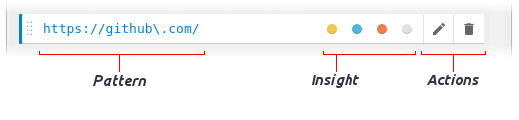
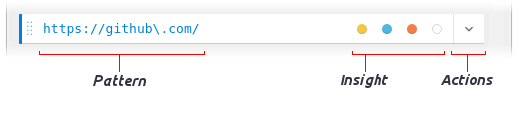
changes README update images

diff --git a/dist/script/browser-action.js b/dist/script/browser-action.js
@@ -498,6 +498,7 @@ function hideRuleContextMenu(){
 
 /**
  * show the action contextmenu 
+ * @param {object} _config 
  */
 function showRuleContextMenu(_config){
 
@@ -739,7 +740,7 @@ window.addEventListener('keydown', function(_e){
             return false;
             break;
 
-        case 83:  // S
+        case 83: // S
 
             if (el.body.dataset.editing == 'true'){
                 
@@ -757,8 +758,11 @@ window.addEventListener('keydown', function(_e){
 
         case 27: // ESC
 
-            if (_e.ctrlKey)
+            // close the editor page with SHIFT + ESC
+            if (_e.shiftKey)
                 delete el.body.dataset.editing;
+
+            // Close the info page with just ESC
             delete el.body.dataset.info;
 
             _e.preventDefault();

diff --git a/src/script/browser-action.js b/src/script/browser-action.js
@@ -498,6 +498,7 @@ function hideRuleContextMenu(){
 
 /**
  * show the action contextmenu 
+ * @param {object} _config 
  */
 function showRuleContextMenu(_config){
 
@@ -739,7 +740,7 @@ window.addEventListener('keydown', function(_e){
             return false;
             break;
 
-        case 83:  // S
+        case 83: // S
 
             if (el.body.dataset.editing == 'true'){
                 
@@ -757,8 +758,11 @@ window.addEventListener('keydown', function(_e){
 
         case 27: // ESC
 
-            if (_e.ctrlKey)
+            // close the editor page with SHIFT + ESC
+            if (_e.shiftKey)
                 delete el.body.dataset.editing;
+
+            // Close the info page with just ESC
             delete el.body.dataset.info;
 
             _e.preventDefault();

diff --git a/README.md b/README.md
@@ -82,10 +82,22 @@ The *Rule*'s element bar can be subdivided into 3 sections:  *Pattern*, *Insight
 
 - **Actions:** 
   - **Edit**  
-  Open the Rule in the *Editor view*.  
+    Open the Rule in the *Editor view*.  
+
+  - **Inject**  
+    Manually inject the Rule into the current tab.  
+
+  - **Move Top**  
+    Move the rule as fisrt of the list.  
+
+  - **Move Bottom**  
+    Move the rule as last of the list.   
+
+  - **Enabled**  
+    define if the current Rule can be injected. 
 
   - **Delete**   
-    Delete the Rule. Must be clicked twice, the button will extend as if asking for the user confimation. 
+    Delete the Rule. (must be clicked twice) 
 
 
 
@@ -151,10 +163,6 @@ If the file extension is not recognized as one of the 3 types mentioned above th
 >**IMPORTANT:**  
 >The injection of *local* files is experimental and could stop working anytime with browser's updates.
 
-#### Enabled:
-
-If `TRUE`, define if the current rule can be injected.
-
 #### On page load:
 
 If `TRUE`, the rule will be injected on page load, else it will be injected on navigation.  
@@ -179,12 +187,28 @@ Define the size of the popup window. (in px)
 
 #### Import / Export
 
-- To export press on the `export` button.  
-  The *Rules* will be exported as a browser download.
-- To import press on the `import` button.  
-  Navigate into your system and select a file containing a valid *JSON* of *Rules*.   
+**Export:**  
+- Press on the *export button* to show the "export modal".  
+- In the "export modal" will be listed all your *Rules*.  
+- Select which rules you'd like to export and click on the *export button*.  
+(At least 1 rule has to be selected to enable the *export button*)  
+The selected *Rules* will be downloaded as a json file.  
+  
+**Import:**  
+- Press on the *import button* to show the "import modal".   
+- You can chose from 3 types of import method:  
+  1) *Local JSON File*  
+    Navigate into your system and select a file containing a valid *JSON* of *Rules*.  
+  2) *Remote JSON File*   
+    give a remote file URL containing a valid *JSON* of *Rules*.  
+    Example: `https://www.mydomain.com/path/to/ruleslist.json`
+  2) *GitHub repository*  
+    Import a rule from a GitHub repository address.  
+    Example: [`https://github.com/Lor-Saba/Code-Injector-GitHub-Rule`](https://github.com/Lor-Saba/Code-Injector-GitHub-Rule)  
+- Click on the *import button* to confirm.
 
-*A message should appear to tell whether the operation is successful or not.* 
+> **Note:**
+  A message should appear to tell whether the operation is successful or not. 
 
 #### Show counter
 
